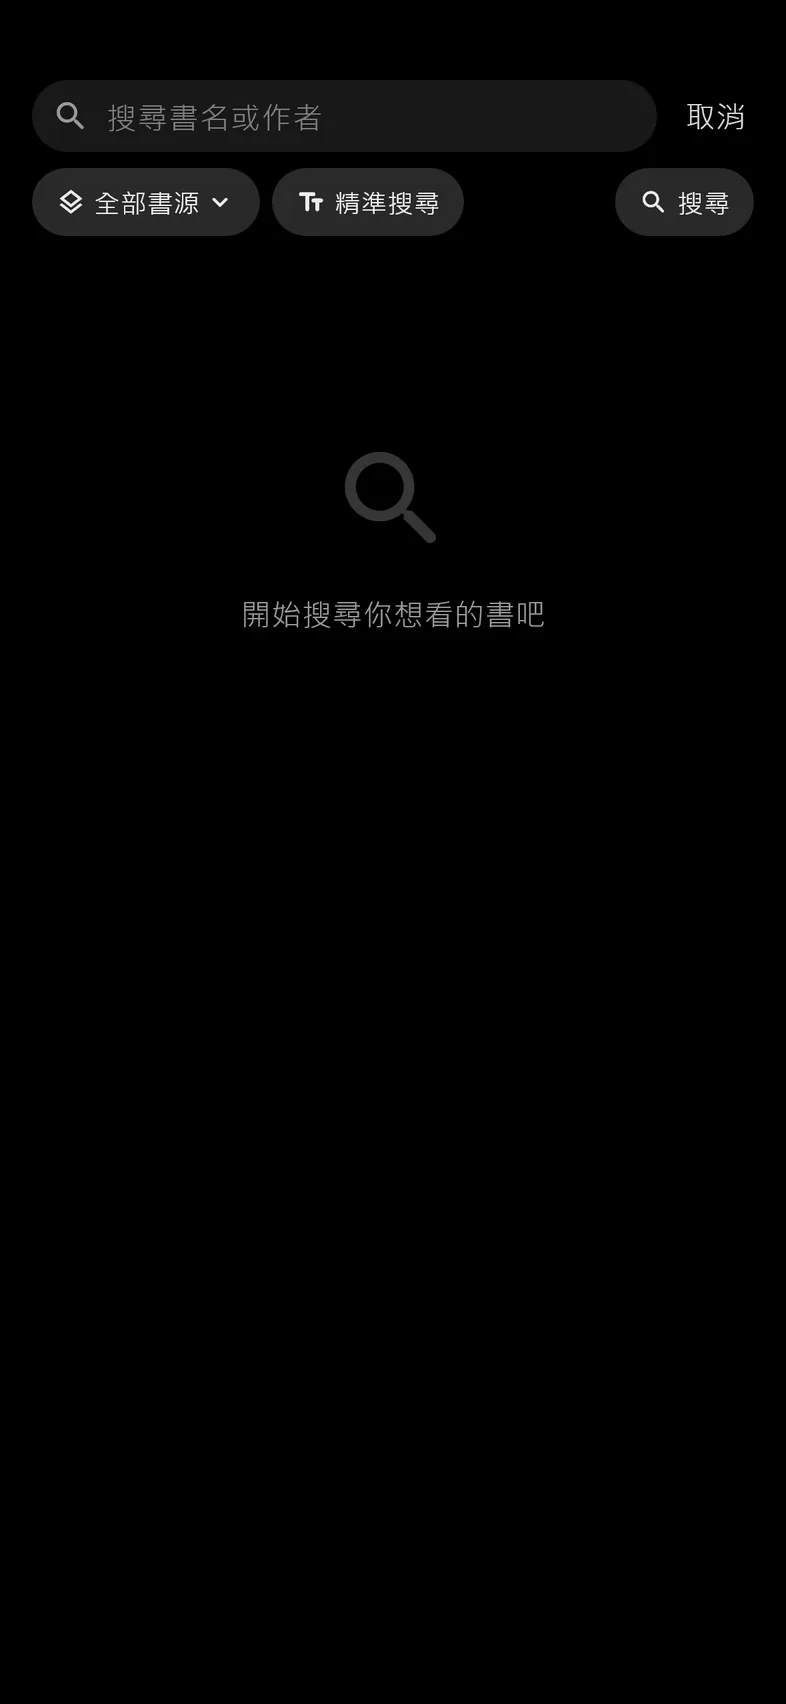
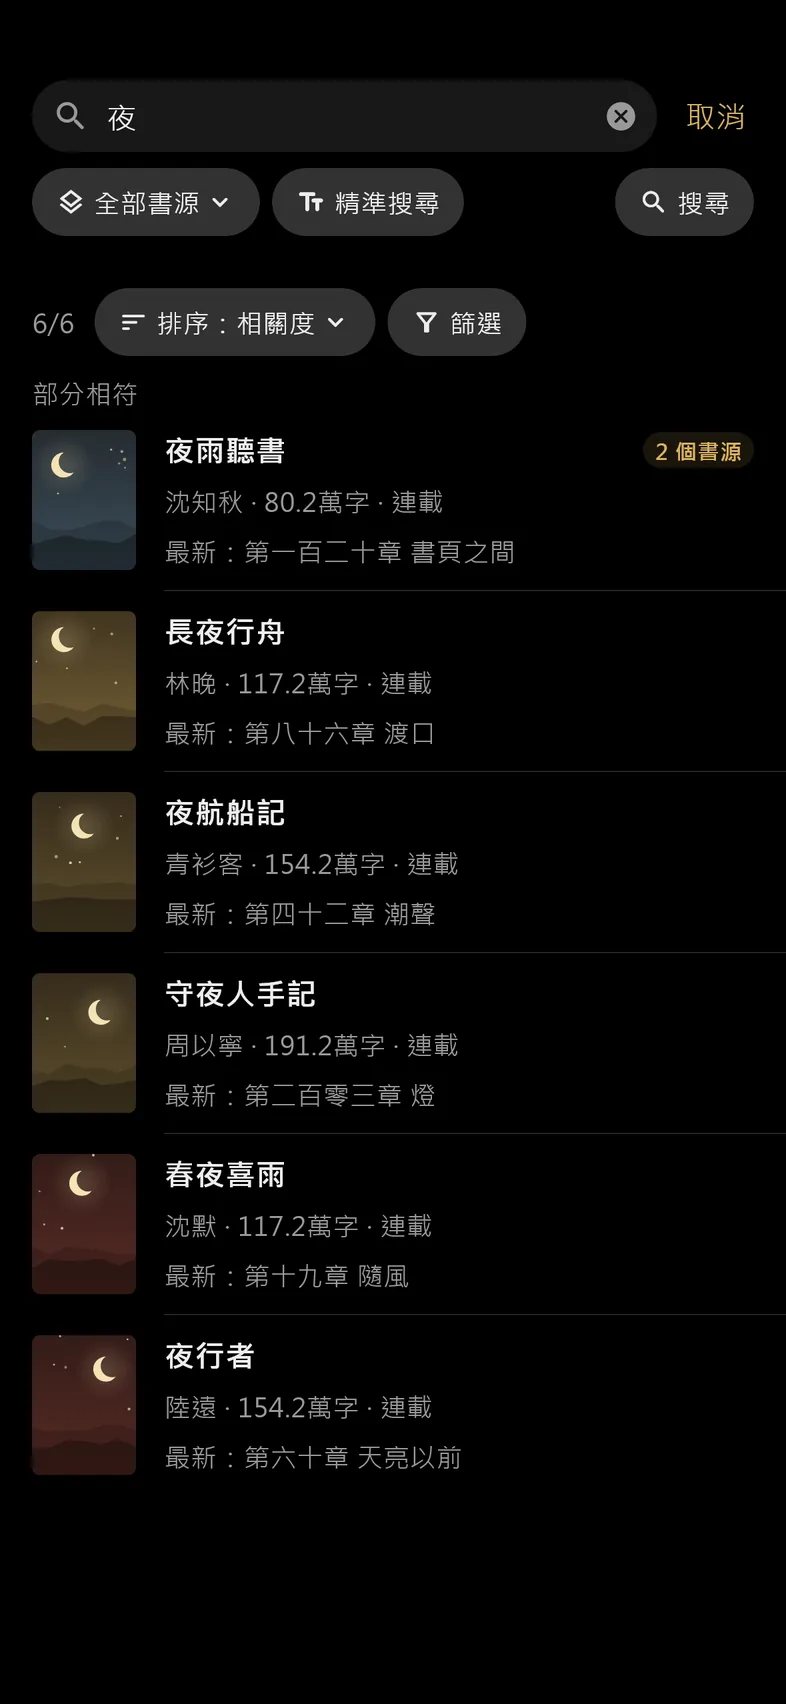
prototype(website): 照新預設重拍截圖，搜尋改成有結果
App 預設改成維護者手機上的設定（#295）後重拍：書架列表、牛皮紙／純黑
素色、隱藏狀態列、頁首時間與電量。搜尋換成兩個書源回傳的「夜」的結果
（同一本書合併成一張卡）；排版那張改點中間偏上叫出選單，正中間現在是
標註，點了會開標註面板。字格那段只放排版面板一張，上半部已經有正文。

Release-Notes: none

diff --git a/test/screens/website_shots_test.dart b/test/screens/website_shots_test.dart
@@ -10,6 +10,7 @@ library;
 
 import 'dart:io';
 
+import 'package:dio/dio.dart';
 import 'package:flutter/material.dart';
 import 'package:flutter_test/flutter_test.dart';
 import 'package:night_reader/core/constant/prefer_key.dart';
@@ -21,7 +22,14 @@ import 'package:night_reader/core/di/injection.dart';
 import 'package:night_reader/core/models/book_source.dart';
 import 'package:night_reader/core/models/bookmark.dart';
 import 'package:night_reader/core/models/highlight.dart';
+import 'package:night_reader/core/models/search_book.dart';
+import 'package:night_reader/features/search/search_page.dart';
+import 'package:night_reader/features/search/search_provider.dart';
+import 'package:night_reader/features/search/widgets/search_app_bar.dart';
+import 'package:night_reader/shared/navigation/transition_settled.dart';
+import 'package:night_reader/shared/theme/app_chrome.dart';
 import 'package:night_reader/shared/widgets/skeleton.dart';
+import 'package:provider/provider.dart';
 
 import '../support/app_harness.dart';
 import '../support/screenshot.dart';
@@ -58,13 +66,108 @@ final _scenes = <String, Steps>{
   'reader': (t) async => openReader(t),
   'layout': (t) async {
     await openReader(t);
-    await showReaderMenu(t);
+    // 畫面正中間是標註，點了會開標註面板；點中間偏上沒有標註的那行。
+    final size = t.view.physicalSize / t.view.devicePixelRatio;
+    await t.tapAt(Offset(size.width / 2, size.height * 0.42));
+    await settle(t, const Duration(milliseconds: 800));
+    await waitForText(t);
     await _tapText(t, '排版');
   },
-  'search': (t) async => _tapTooltip(t, '搜尋'),
+  'search': _searchResults,
   'marks': (t) async => _openMine(t, '書籤與標註'),
   'appearance': (t) async => _openMine(t, '外觀與主題'),
 };
+
+/// 搜尋「夜」：兩個書源各回幾本，同一本書從兩個書源回來合併成一張卡。
+/// 書源的回應從記憶體給（同 search_frame_budget_test）。
+const _searchAnswers = {
+  kOrigin: [
+    ('夜雨聽書', '沈知秋', '第一百二十章 書頁之間'),
+    ('長夜行舟', '林晚', '第八十六章 渡口'),
+    ('夜航船記', '青衫客', '第四十二章 潮聲'),
+    ('守夜人手記', '周以寧', '第二百零三章 燈'),
+  ],
+  'https://www.sample.org': [
+    ('夜雨聽書', '沈知秋', '第一百二十章 書頁之間'),
+    ('春夜喜雨', '沈默', '第十九章 隨風'),
+    ('夜行者', '陸遠', '第六十章 天亮以前'),
+  ],
+};
+
+Future<List<SearchBook>> _searchLoader(
+  BookSource source,
+  String key, {
+  CancelToken? cancelToken,
+}) => Future.delayed(const Duration(milliseconds: 200), () {
+  final answers = _searchAnswers[source.bookSourceUrl] ?? const [];
+  return [
+    for (final (i, (name, author, latest)) in answers.indexed)
+      SearchBook(
+        bookUrl: '${source.bookSourceUrl}/book/$name',
+        name: name,
+        author: author,
+        kind: '連載',
+        wordCount: '${80 + i * 37}.2萬字',
+        latestChapterTitle: latest,
+        origin: source.bookSourceUrl,
+        originName: source.bookSourceName,
+      ),
+  ];
+});
+
+/// 搜尋頁換成上面那組書源回應，主題沿用 App 這次的主題。
+Future<void> _searchResults(WidgetTester tester) async {
+  final theme = Theme.of(tester.element(find.byType(Scaffold).first));
+  await tester.pumpWidget(
+    MaterialApp(
+      debugShowCheckedModeBanner: false,
+      theme: theme,
+      home: Builder(
+        builder: (context) => Scaffold(
+          body: TextButton(
+            onPressed: () => Navigator.of(context).push(
+              MaterialPageRoute<void>(
+                builder: (_) => ChangeNotifierProvider(
+                  create: (context) => SearchProvider(
+                    entrance: TransitionSettled.entered(context),
+                    searchLoader: _searchLoader,
+                  ),
+                  child: const SearchView(),
+                ),
+              ),
+            ),
+            child: const Text('打開搜尋'),
+          ),
+        ),
+      ),
+    ),
+  );
+  await tester.pump();
+  await _tapText(tester, '打開搜尋');
+  final provider = Provider.of<SearchProvider>(
+    tester.element(find.byType(SearchView)),
+    listen: false,
+  );
+  await tester.runAsync(() => provider.ready);
+  await tester.enterText(find.byType(TextField), '夜');
+  await tester.pump();
+  await tester.tap(
+    find.descendant(of: find.byType(SearchAppBar), matching: find.text('搜尋')),
+  );
+  for (
+    var i = 0;
+    i < 100 && (provider.isSearching || provider.results.isEmpty);
+    i++
+  ) {
+    await tester.runAsync(
+      () => Future<void>.delayed(const Duration(milliseconds: 30)),
+    );
+    await settle(tester, const Duration(milliseconds: 100));
+  }
+  // 收起鍵盤與建議，只留結果。
+  FocusManager.instance.primaryFocus?.unfocus();
+  await settle(tester, const Duration(milliseconds: 600));
+}
 
 Future<void> _seedShowcase() async {
   await getIt<BookSourceDao>().upsertAll([
@@ -159,6 +262,8 @@ void main() {
       if (only != null && !only.contains(name)) continue;
       await tester.runAsync(
         () => resetPrefs({
+          // 照 App 的預設玻璃（測試環境預設用霧面）。
+          PreferKey.glassStrength: GlassStrength.defaultStrength.name,
           'themeMode': mode,
           PreferKey.lightStyle: ?style,
           PreferKey.darkStyle: ?style,

diff --git a/website/proto/dusk.html b/website/proto/dusk.html
@@ -76,9 +76,8 @@
 
   <main class="wrap">
     <section class="feature">
-      <div class="shots pair">
-        <div class="phone"><div class="screen"><picture><source media="(prefers-color-scheme: dark)" srcset="shots/layout_dark.webp"><img src="shots/layout_light.webp" alt="閱讀器的排版面板：字號、行高、段距、每行字數"></picture></div></div>
-        <div class="phone"><div class="screen"><picture><source media="(prefers-color-scheme: dark)" srcset="shots/reader-paper_dark.webp"><img src="shots/reader-paper_light.webp" alt="閱讀器的正文"></picture></div></div>
+      <div class="shots">
+        <div class="phone"><div class="screen"><picture><source media="(prefers-color-scheme: dark)" srcset="shots/layout_dark.webp"><img src="shots/layout_light.webp" alt="閱讀器的排版面板：字號、行高、段距、每行字數，上面是正文"></picture></div></div>
       </div>
       <div class="text">
         <h2>每個字都對齊字格</h2>

diff --git a/website/proto/hero-sky.html b/website/proto/hero-sky.html
@@ -58,9 +58,8 @@
 
   <main class="wrap">
     <section class="feature">
-      <div class="shots pair">
-        <div class="phone"><div class="screen"><picture><source media="(prefers-color-scheme: dark)" srcset="shots/layout_dark.webp"><img src="shots/layout_light.webp" alt="閱讀器的排版面板：字號、行高、段距、每行字數"></picture></div></div>
-        <div class="phone"><div class="screen"><picture><source media="(prefers-color-scheme: dark)" srcset="shots/reader-paper_dark.webp"><img src="shots/reader-paper_light.webp" alt="閱讀器的正文"></picture></div></div>
+      <div class="shots">
+        <div class="phone"><div class="screen"><picture><source media="(prefers-color-scheme: dark)" srcset="shots/layout_dark.webp"><img src="shots/layout_light.webp" alt="閱讀器的排版面板：字號、行高、段距、每行字數，上面是正文"></picture></div></div>
       </div>
       <div class="text">
         <h2>每個字都對齊字格</h2>

diff --git a/website/proto/features.html b/website/proto/features.html
@@ -1,7 +1,6 @@
     <section class="feature">
-      <div class="shots pair">
-        <div class="phone"><div class="screen"><picture><source media="(prefers-color-scheme: dark)" srcset="shots/layout_dark.webp"><img src="shots/layout_light.webp" alt="閱讀器的排版面板：字號、行高、段距、每行字數"></picture></div></div>
-        <div class="phone"><div class="screen"><picture><source media="(prefers-color-scheme: dark)" srcset="shots/reader-paper_dark.webp"><img src="shots/reader-paper_light.webp" alt="閱讀器的正文"></picture></div></div>
+      <div class="shots">
+        <div class="phone"><div class="screen"><picture><source media="(prefers-color-scheme: dark)" srcset="shots/layout_dark.webp"><img src="shots/layout_light.webp" alt="閱讀器的排版面板：字號、行高、段距、每行字數，上面是正文"></picture></div></div>
       </div>
       <div class="text">
         <h2>每個字都對齊字格</h2>
